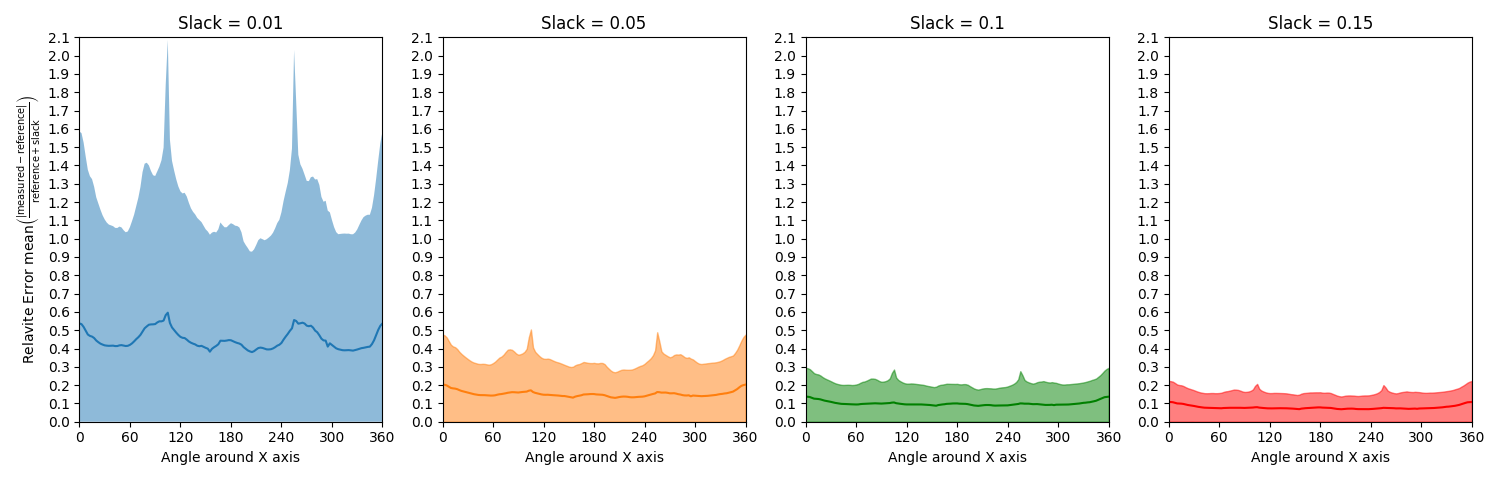
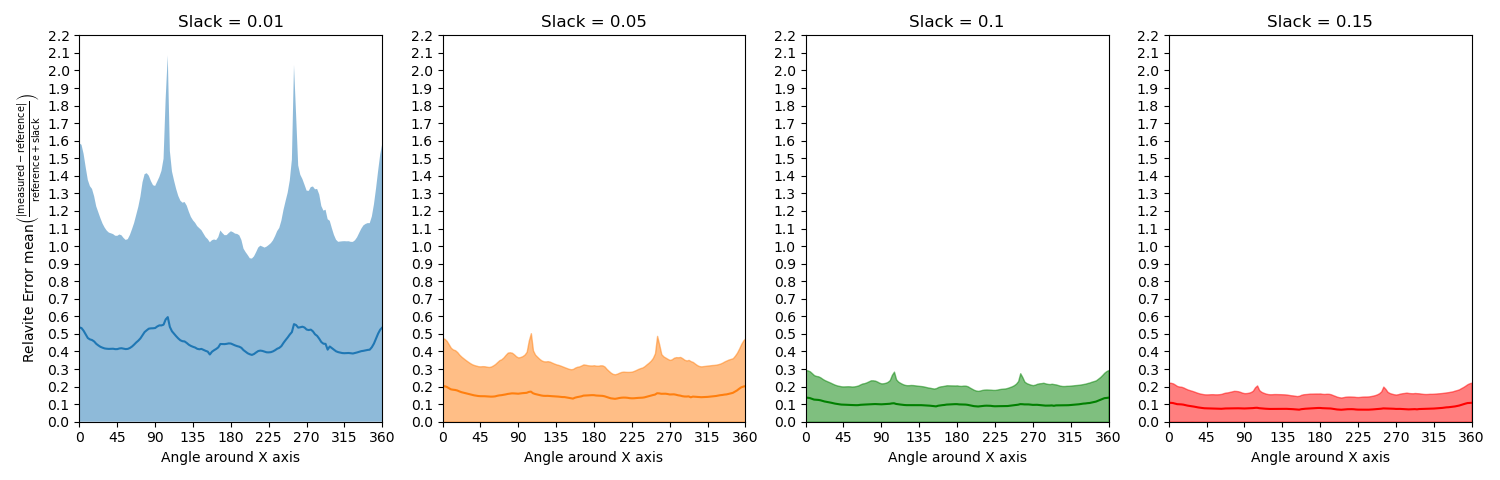
Made plots for results section write up

diff --git a/Raytracer/Experiment_plotter.py b/Raytracer/Experiment_plotter.py
@@ -1,6 +1,8 @@
 import numpy as np
 import matplotlib.pyplot as plt
 
+exp = "zup-down"
+
 
 def convertToFloat(list):
     ret = []
@@ -17,16 +19,16 @@ def plot_exp(filename):
     fig, axes = plt.subplots(1,4, sharex=True)
     fig.set_figwidth(15)
     axes[0].set_ylabel(r"Relavite Error $\mathrm{mean}\left(\frac{|\mathrm{measured}  - \mathrm{reference}|}{\mathrm{reference} + \mathrm{slack}}\right)$")
-    axes[0].set_xlabel("Angle around X axis")
-    axes[1].set_xlabel("Angle around X axis")
-    axes[2].set_xlabel("Angle around X axis")
-    axes[3].set_xlabel("Angle around X axis")
+    axes[0].set_xlabel("Angle around " + exp[0].upper() + " axis")
+    axes[1].set_xlabel("Angle around " + exp[0].upper() + " axis")
+    axes[2].set_xlabel("Angle around " + exp[0].upper() + " axis")
+    axes[3].set_xlabel("Angle around " + exp[0].upper() + " axis")
     axes[0].set_title("Slack = 0.01")
     axes[1].set_title("Slack = 0.05")
     axes[2].set_title("Slack = 0.1")
     axes[3].set_title("Slack = 0.15")
-    axes[0].xaxis.set_ticks(np.arange(0, 361, 60))
-    max = (np.floor(np.max(lines[2] + lines[3])/0.1)+1)*0.1
+    axes[0].xaxis.set_ticks(np.arange(0, 361, 45))
+    max = 2.2#(np.floor(np.max(lines[2] + lines[3])/0.1)+1)*0.1
     axes[0].set_ylim([0, max])
     axes[1].set_ylim([0, max])
     axes[2].set_ylim([0, max])
@@ -51,12 +53,17 @@ def plot_exp(filename):
     plt.show()
 
 
-    plt.plot(lines[0], lines[11], label="Ray Marcher Render Time")
-    plt.plot(lines[0], lines[10], label="Q-Net Render Time")
-    plt.xticks(np.arange(0, 361, 60))
-    plt.ylabel("Render Time")
-    plt.xlabel("Angle around Z axis")
-    plt.legend()
+    fig, axes = plt.subplots(1,1, sharex=True)
+    # fig.set_figwidth(15)
+    axes.set_xlim([0, 360])
+    axes.plot(lines[0], lines[11], label="Ray Marcher Render Time")
+    axes.plot(lines[0], lines[10], label="Q-Net Render Time")
+    axes.xaxis.set_ticks(np.arange(0, 361, 45))
+    # axes.yaxis.set_ticks(np.arange(-50, 51, 10))
+    axes.set_ylabel("Render Time (s)")
+    axes.set_xlabel("Angle around " + exp[0].upper() + " axis")
+    axes.legend()
+    plt.tight_layout()
     plt.show()
 
-plot_exp("../Renders/Blender_cloud_v1_zup-down_exp_400_400/data.txt")
+plot_exp("../Renders/Blender_cloud_v1_" + exp + "_exp_400_400/data.txt")

diff --git a/display_VDB_Data_and_Network.py b/display_VDB_Data_and_Network.py
@@ -1,11 +1,10 @@
 import torch
 import matplotlib.pyplot as plt
-import pandas as pd
 import numpy as np
 from matplotlib.widgets import Slider
 import scipy.io as scio
 
-weights = scio.loadmat("MATLABtest/volume_weights_v3.mat")
+weights = scio.loadmat("MATLABtest/Blender_cloud_weights_v1.mat")
 pw1 = weights["pw1"]
 pb1 = weights["pb1"]
 pw2 = weights["pw2"]
@@ -22,6 +21,54 @@ xslicedata = np.empty((63*117, 3))
 yslicedata = np.empty((63*117, 3))
 
 
+# full_data = np.empty((117, 117, 63, 3))
+# for x in range(117):
+#     for y in range(117):
+#         for z in range(63):
+#             full_data[x, y, z] = [((x/116)*2)-1,((y/116)*2)-1,((z/62)*2)-1]
+
+# full_data = full_data.reshape((117*117*63, 3))
+
+data = scio.loadmat("MATLABtest/volume_data.mat")
+data = data['a']
+print(np.shape(data))
+
+points =  data[:,:3]
+print(np.shape(points))
+points = torch.tensor(points, dtype=torch.float32)
+
+
+data = data[:,3].reshape((862407,1))
+
+print("points ", np.shape(points.numpy()), " data", np.shape(data))
+
+res = model(points).detach().numpy()
+
+array = np.load("volumes/npversions/Blender_cloud.npy")
+
+mx = np.max(array)
+mn = np.min(array)
+
+scl = 2/(mx-mn)
+
+res = (res + 1)/scl
+
+print(np.mean((res - data)**2))
+
+# mse = torch.nn.MSELoss()
+
+# print(mse(res, torch.tensor(data, dtype=torch.float32)))
+
+# plt.imshow(res.reshape())
+
+# print(np.shape(data))
+# print(np.shape(res))
+
+# res = np.mean((res - data)**2)
+
+# print(res)
+
+
 for i in range(63):
     for j in range(117):
         xslicedata[i*117 + j] = [0, (j/58)-1, (i/31)-1]
@@ -29,13 +76,6 @@ for i in range(63):
 
 xslicedata = torch.tensor(xslicedata, dtype=torch.float32)
 yslicedata = torch.tensor(yslicedata, dtype=torch.float32)
-
-array = np.load("fluid_data_0083_numpy_array.npy")
-
-mx = np.max(array)
-mn = np.min(array)
-
-scl = 2/(mx-mn)
 
 
 xres = np.reshape(model(xslicedata).detach().numpy(),(63, 117))
